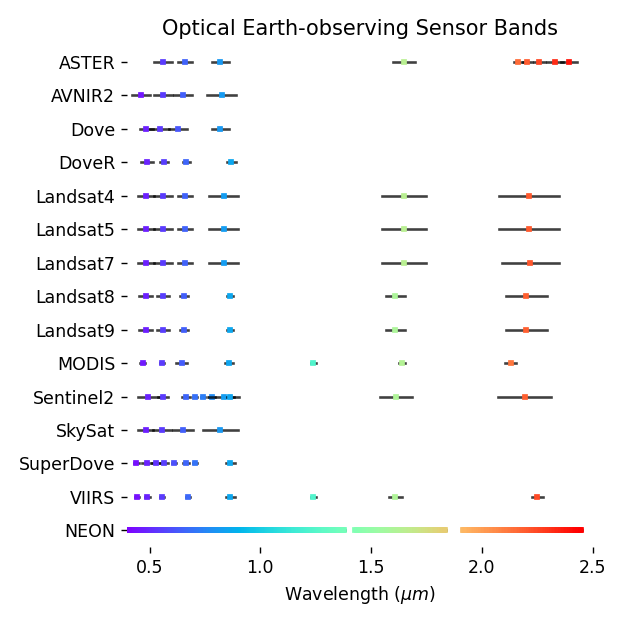
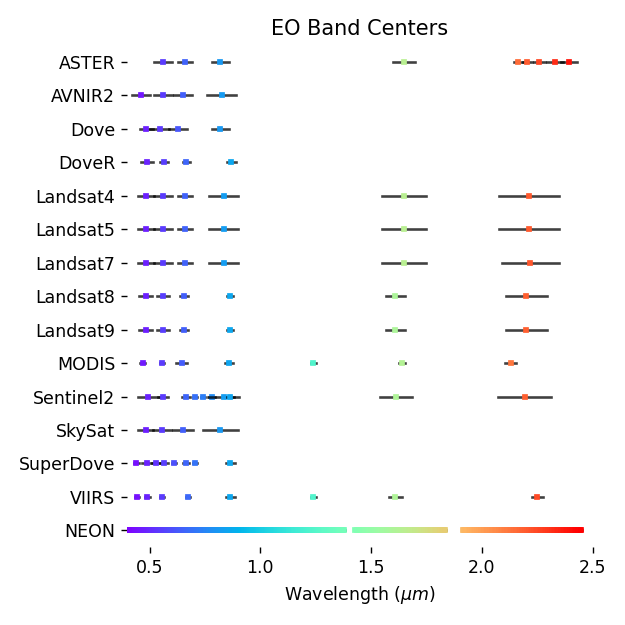
replaced data source doc figures

Changed region(s): [[0.2432, 0.0304, 0.912, 0.0608]]

diff --git a/docs/sources.md b/docs/sources.md
@@ -1,9 +1,9 @@
 # Data Sources
 
-The Earth Library is a collection of collections, merging spectral measurments and models from a range of data sources. `earthlib` provides routines for resampling this collection to match the wavelenghts of many common optical imaging sensors.
+`earthlib` provides a collection of spectral measurments and models from a range of data sources, as well as tools for resampling this collection to match the wavelenghts of common optical imaging sensors.
 
 
-## Spectral libraries
+## Source libraries
 
 The following data sources were filtered and resampled prior to inclusion in `earthlib`.
 
@@ -15,37 +15,39 @@ The following data sources were filtered and resampled prior to inclusion in `ea
 - [USGS Spectral Library Version 7](https://www.sciencebase.gov/catalog/item/5807a2a2e4b0841e59e3a18d)
 
 
-Below are plots for the primary land cover spectra included in `earthlib`.
+## Land cover types
 
-![earthlib photosynthetic vegetation spectra](img/spectra-vegetation-mean-stdv.png)
+Below are plots for the primary land cover types included in `earthlib`.
 
-![earthlib non-photosynthetic vegetation spectra](img/spectra-npv-mean-stdv.png)
-
-![earthlib bare ground spectra](img/spectra-bare-mean-stdv.png)
-
-![earthlib burned spectra](img/spectra-burn-mean-stdv.png)
-
-![earthlib vegetation spectra](img/spectra-urban-mean-stdv.png)
+![earthlib spectra](img/mean-spectra-panels.png)
 
 
 ## Supported sensors
 
 ![earthlib satellite instruments](img/supported-sensors.png)
 
-In the figure above, the black lines indicate the full-width of each band, and the colored squares mark the center wavelength for each band. `NEON`, an imaging spectrometer system, measures the full shortwave spectrum (*400-2500 nm*) using over 400 spectral bands to measure continuous spectral variance (these bands have been resampled to match the range/centers of the `earthlib` reference library).
+Here, the black lines indicate the full-width at half-max (FWHM) of each band, and the colored squares mark the center wavelength for each band.
+
+`NEON`, an imaging spectrometer, measures the full shortwave spectrum (*400-2500 nm*), using over 400 spectral bands to measure continuous spectral variation.
 
 
-### Measurement types
+### Measurement units
 
-The `earthlib` spectral library are provided in units of surface reflectance: scaled as floating point values from 0-1. Data from the most commonly-used sensors—like Landsat, Sentinel & MODIS—are provided in Earth Engine as surface reflectance products. These datasets can be unmixed once the data have been rescaled: they're typically provided as unsigned integer values from 0-10000.
+The `earthlib` spectral library is provided in units of surface reflectance, scaled as floating point values from 0-1.
 
-A few data sources are not available as surface reflectance products: `ASTER` data are provided in radiance (a physical measurement unit, uncorrected for atmospheric composition); `ALOS-AVNIR-2` data are provided in DN (raw sensor measurments).
+Data from commonly-used sensors—like Landsat, Sentinel, and MODIS—are often provided as surface reflectance products.
 
-Though we provide paths to these collections and the wavelengths of these sensors, these data cannot be unmixed as-is using `earthlib`. You would have to first convert from DN to radiance (in the case of `ALOS-AVNIR-2`) then apply atmospheric correction (to convert from radiance to reflectance). This workflow isn't supported by `earthlib`.
+These datasets can be unmixed once the data have been rescaled: they're typically provided as unsigned integer values from 0-10000.
+
+A few data sources are not provided as surface reflectance products: `ASTER` data are provided in radiance (a physical measurement unit, uncorrected for atmospheric composition); `ALOS-AVNIR-2` data are provided in DN (raw sensor measurments).
+
+One would have to first convert from DN to radiance (in the case of `ALOS-AVNIR-2`) then apply atmospheric correction (to convert from radiance to reflectance).
+
+This workflow isn't supported by `earthlib`.
 
 
 ### Sensors unavailable in Earth Engine
 
-`earthlib` provides sensor definitions for `NEON` data (a set of airborne imaging spectrometers) and for a set of data from Planet's Dove constellation (`PlanetScope`, `Dove-R`, `SuperDove`). These are not available as default Earth Engine collections.
+`earthlib` provides sensor definitions for `NEON` data (a set of airborne imaging spectrometers) and for a set of data from Planet's Dove constellation (`Dove`, `Dove-R`, `SuperDove`). These are not available as default Earth Engine collections.
 
 You can, however, upload data from these providers as custom user data or from community-contributed datasets. So you can unmix these datasets if you have access to them as Earth Engine Image/Collection assets, but no default collection ID is provided by `earthlib`.
